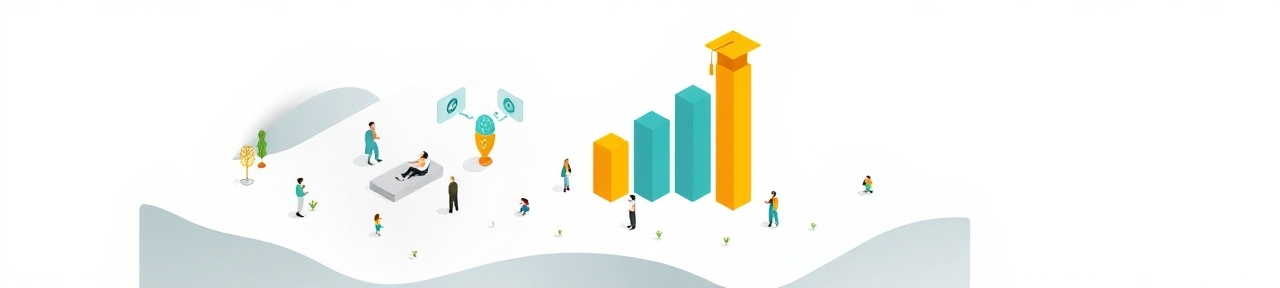
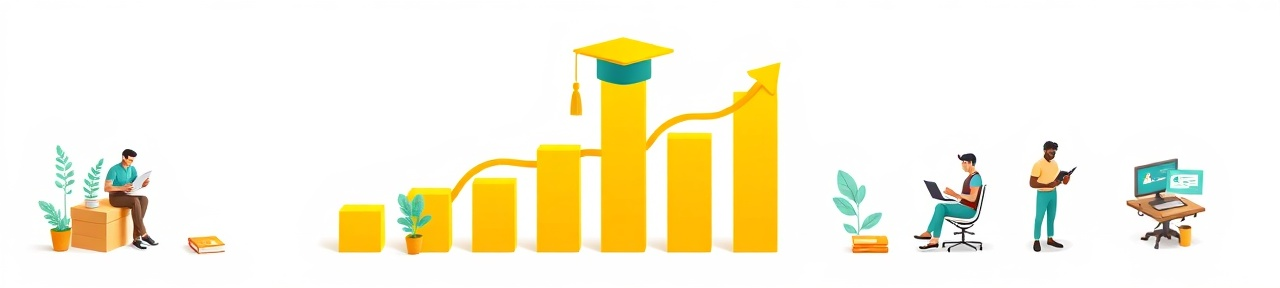
Fix professional_dev illustration and update onboarding previews
- Regenerate professional_dev.png (1280x288) via fal.ai — fills full width, no white space
- Onboarding PanelStage2: replace list with 3-column grid matching stage2 UI
- Onboarding PanelStage3: per-aspect strategy containers matching stage3 UI
- Onboarding PanelReady: update hero (title + name + date, no avg score)
- Onboarding PanelAspects: use square illustrations

Changed region(s): [[0.0312, 0.0938, 0.8438, 1.0], [0.875, 0.5312, 0.9688, 0.875]]

diff --git a/src/app/onboarding/page.tsx b/src/app/onboarding/page.tsx
@@ -138,7 +138,7 @@ function PanelAspects() {
             </div>
             <div style={{ flex: 1, padding: "4px 6px 6px", overflow: "hidden" }}>
               <img
-                src={`/illustrations/${asp.code}.png`}
+                src={`/illustrations/square/${asp.code}.png`}
                 alt=""
                 style={{ width: "100%", height: "100%", objectFit: "cover", borderRadius: 4 }}
               />
@@ -150,7 +150,7 @@ function PanelAspects() {
   );
 }
 
-// ─── Right panel: Stage 2 (compact list + edit window) ────────────────────────
+// ─── Right panel: Stage 2 (grid + edit window) ────────────────────────────────
 
 function PanelStage2() {
   const selectedCode = "students_involvement";
@@ -163,41 +163,38 @@ function PanelStage2() {
         Этап 2 — Углублённый анализ
       </div>
 
-      {/* Compact list */}
-      <div className="rounded-2xl overflow-hidden" style={{ border: "1px solid var(--border)", background: "var(--surface)" }}>
-        {ASPECTS.slice(0, 6).map((asp, idx) => {
-          const score = MOCK_SCORES[asp.code];
-          const scoreColor = getScoreColor(score);
-          const isSelected = asp.code === selectedCode;
-          const isDived = MOCK_DIVES.includes(asp.code);
-          const filledCount = (MOCK_FIELD_DATA[asp.code] ?? []).length;
-          return (
-            <div key={asp.code} className="flex items-center gap-2 px-3 py-2"
-              style={{
-                borderBottom: idx < 5 ? "1px solid var(--border)" : "none",
-                background: isSelected ? "#4F46E508" : "transparent",
-                borderLeft: isSelected ? "3px solid #4F46E5" : "3px solid transparent",
-              }}>
-              <div className="w-6 h-6 rounded-lg flex items-center justify-center text-xs font-bold flex-shrink-0"
-                style={{ background: scoreColor + "20", color: scoreColor }}>{score}</div>
-              <div className="flex-1 text-xs font-medium truncate" style={{ color: isSelected ? "#4F46E5" : "var(--foreground)" }}>
-                {asp.shortTitle}
+      {/* Aspect grid */}
+      <div className="p-3 rounded-2xl" style={{ background: "var(--surface)", border: "1px solid var(--border)" }}>
+        <div className="text-xs font-medium mb-2" style={{ color: "var(--foreground)" }}>Выберите аспект для анализа</div>
+        <div className="grid grid-cols-3 gap-1.5">
+          {ASPECTS.map((asp) => {
+            const score = MOCK_SCORES[asp.code];
+            const scoreColor = getScoreColor(score);
+            const isSelected = asp.code === selectedCode;
+            const isDived = MOCK_DIVES.includes(asp.code);
+            return (
+              <div key={asp.code} className="p-2 rounded-xl"
+                style={{
+                  background: isSelected ? "#4F46E510" : isDived ? "var(--surface-2)" : "transparent",
+                  border: isSelected ? "2px solid #4F46E5" : `1px solid ${isDived ? "#4F46E530" : "var(--border)"}`,
+                }}>
+                <div className="flex items-center justify-between">
+                  <span className="truncate font-semibold" style={{ color: isSelected ? "#4F46E5" : "var(--foreground)", fontSize: 10 }}>{asp.shortTitle}</span>
+                  <span className="font-bold ml-1 flex-shrink-0" style={{ color: scoreColor, fontSize: 10 }}>{score}</span>
+                </div>
+                <div style={{ fontSize: 9, color: isSelected ? "#4F46E5" : isDived ? "#22c55e" : "transparent" }}>
+                  {isSelected ? "✓ открыт" : isDived ? "✓ заполнен" : "·"}
+                </div>
               </div>
-              <div className="flex gap-0.5 flex-shrink-0">
-                {filledCount > 0 && [0,1,2,3].map((fi) => (
-                  <div key={fi} className="w-1 h-1 rounded-full" style={{ background: fi < filledCount ? FIELDS[fi].color : "var(--border)" }} />
-                ))}
-                {isDived && <div className="ml-1 text-xs" style={{ color: "#22c55e" }}>✓</div>}
-              </div>
-            </div>
-          );
-        })}
+            );
+          })}
+        </div>
       </div>
 
       {/* Edit window */}
       <div className="rounded-2xl overflow-hidden flex-shrink-0" style={{ border: "1px solid var(--border)", background: "var(--surface)" }}>
         <div className="px-3 py-2.5 flex items-center justify-between" style={{ borderBottom: "1px solid var(--border)", background: selectedAsp.color + "08" }}>
-          <div className="text-xs font-semibold" style={{ color: "var(--foreground)" }}>{selectedAsp.shortTitle}</div>
+          <div className="text-xs font-bold" style={{ color: "var(--foreground)" }}>{selectedAsp.title}</div>
           <div className="text-xs px-2 py-0.5 rounded-full" style={{ background: selectedAsp.color + "20", color: selectedAsp.color }}>
             {MOCK_SCORES[selectedCode]}/10
           </div>
@@ -209,7 +206,7 @@ function PanelStage2() {
                 <div className="w-1.5 h-1.5 rounded-full" style={{ background: f.color }} />
                 <span className="text-xs font-semibold" style={{ color: f.color }}>{f.label}</span>
               </div>
-              <div className="text-xs leading-relaxed" style={{ color: "var(--muted)", fontSize: 10 }}>
+              <div className="text-xs" style={{ color: "var(--muted)", fontSize: 10 }}>
                 {(MOCK_FIELD_DATA[selectedCode] ?? []).includes(f.key) ? "Заполнено..." : "—"}
               </div>
             </div>
@@ -262,27 +259,29 @@ function PanelStage3() {
         </div>
       </div>
 
-      {/* Strategy cards */}
-      <div className="rounded-2xl overflow-hidden" style={{ background: "var(--surface)", border: "1px solid var(--border)" }}>
-        <div className="px-3 py-2.5 flex items-center gap-2" style={{ borderBottom: "1px solid var(--border)" }}>
-          <div className="w-6 h-6 rounded-lg flex items-center justify-center flex-shrink-0" style={{ background: "#4F46E515" }}>
-            <svg width="12" height="12" viewBox="0 0 16 16" fill="none"><circle cx="8" cy="8" r="7" stroke="#4F46E5" strokeWidth="1.5"/><circle cx="8" cy="8" r="3.5" stroke="#4F46E5" strokeWidth="1.5"/><circle cx="8" cy="8" r="1" fill="#4F46E5"/></svg>
+      {/* Per-aspect strategy cards */}
+      {focusAspects.map((code) => {
+        const asp = ASPECTS.find((a) => a.code === code)!;
+        const score = MOCK_SCORES[code];
+        const scoreColor = getScoreColor(score);
+        return (
+          <div key={code} className="rounded-2xl overflow-hidden" style={{ background: "var(--surface)", border: `1px solid ${scoreColor}40` }}>
+            <div className="px-3 py-2 flex items-center gap-2" style={{ borderBottom: "1px solid var(--border)", background: scoreColor + "08" }}>
+              <div className="w-6 h-6 rounded-lg flex items-center justify-center text-xs font-bold flex-shrink-0"
+                style={{ background: scoreColor + "20", color: scoreColor }}>{score}</div>
+              <div className="text-xs font-bold" style={{ color: "var(--foreground)" }}>{asp.shortTitle}</div>
+            </div>
+            <div className="px-3 pt-2 pb-1" style={{ borderBottom: "1px solid var(--border)" }}>
+              <div className="text-xs font-semibold mb-0.5" style={{ color: "var(--foreground)" }}>Желаемый результат</div>
+              <div style={{ fontSize: 10, color: "var(--muted)" }}>Конкретно и измеримо — что изменится…</div>
+            </div>
+            <div className="px-3 pt-2 pb-2.5">
+              <div className="text-xs font-semibold mb-0.5" style={{ color: "var(--foreground)" }}>Первые шаги</div>
+              <div style={{ fontSize: 10, color: "var(--muted)" }}>1. Составить список… 2. Написать…</div>
+            </div>
           </div>
-          <div>
-            <div className="text-xs font-semibold" style={{ color: "var(--foreground)" }}>Желаемый результат</div>
-            <div className="text-xs" style={{ color: "var(--muted)", fontSize: 10 }}>К маю провести 3 мероприятия…</div>
-          </div>
-        </div>
-        <div className="px-3 py-2.5 flex items-center gap-2">
-          <div className="w-6 h-6 rounded-lg flex items-center justify-center flex-shrink-0" style={{ background: "#22c55e15" }}>
-            <svg width="12" height="12" viewBox="0 0 16 16" fill="none"><rect x="2" y="2" width="12" height="12" rx="2" stroke="#22c55e" strokeWidth="1.5"/><path d="M5 5h6M5 8h6M5 11h4" stroke="#22c55e" strokeWidth="1.5" strokeLinecap="round"/></svg>
-          </div>
-          <div>
-            <div className="text-xs font-semibold" style={{ color: "var(--foreground)" }}>Первые шаги на неделе</div>
-            <div className="text-xs" style={{ color: "var(--muted)", fontSize: 10 }}>1. Составить список… 2. Встреча…</div>
-          </div>
-        </div>
-      </div>
+        );
+      })}
     </div>
   );
 }
@@ -294,15 +293,15 @@ function PanelReady() {
     <div className="flex flex-col h-full overflow-auto p-4 gap-3">
       {/* Hero */}
       <div
-        className="rounded-2xl p-5 text-center flex-shrink-0"
-        style={{
-          background: "linear-gradient(135deg, #1a1a2e 0%, #16213e 50%, #0f3460 100%)",
-          border: "1px solid #4F46E540",
-        }}
+        className="rounded-2xl px-5 py-4 flex-shrink-0"
+        style={{ background: "linear-gradient(135deg, #1a1a2e 0%, #16213e 50%, #0f3460 100%)", border: "1px solid #4F46E540" }}
       >
-        <div className="text-2xl mb-1">✦</div>
-        <div className="text-base font-bold text-white mb-0.5">Карта заполнена</div>
-        <div className="text-xs" style={{ color: "#94a3b8" }}>Так будет выглядеть ваш результат</div>
+        <div className="flex items-center gap-2 mb-1.5">
+          <div className="w-4 h-4 rounded flex items-center justify-center text-xs" style={{ background: "#4F46E5", color: "#fff" }}>✦</div>
+          <span className="text-sm font-bold" style={{ color: "#e2e8f0" }}>Карта воспитательной среды</span>
+        </div>
+        <div className="text-xs font-medium" style={{ color: "#94a3b8" }}>Советник директора</div>
+        <div className="text-xs mt-0.5" style={{ color: "#64748b" }}>27 марта 2026</div>
       </div>
 
       {/* Score mini-map */}
